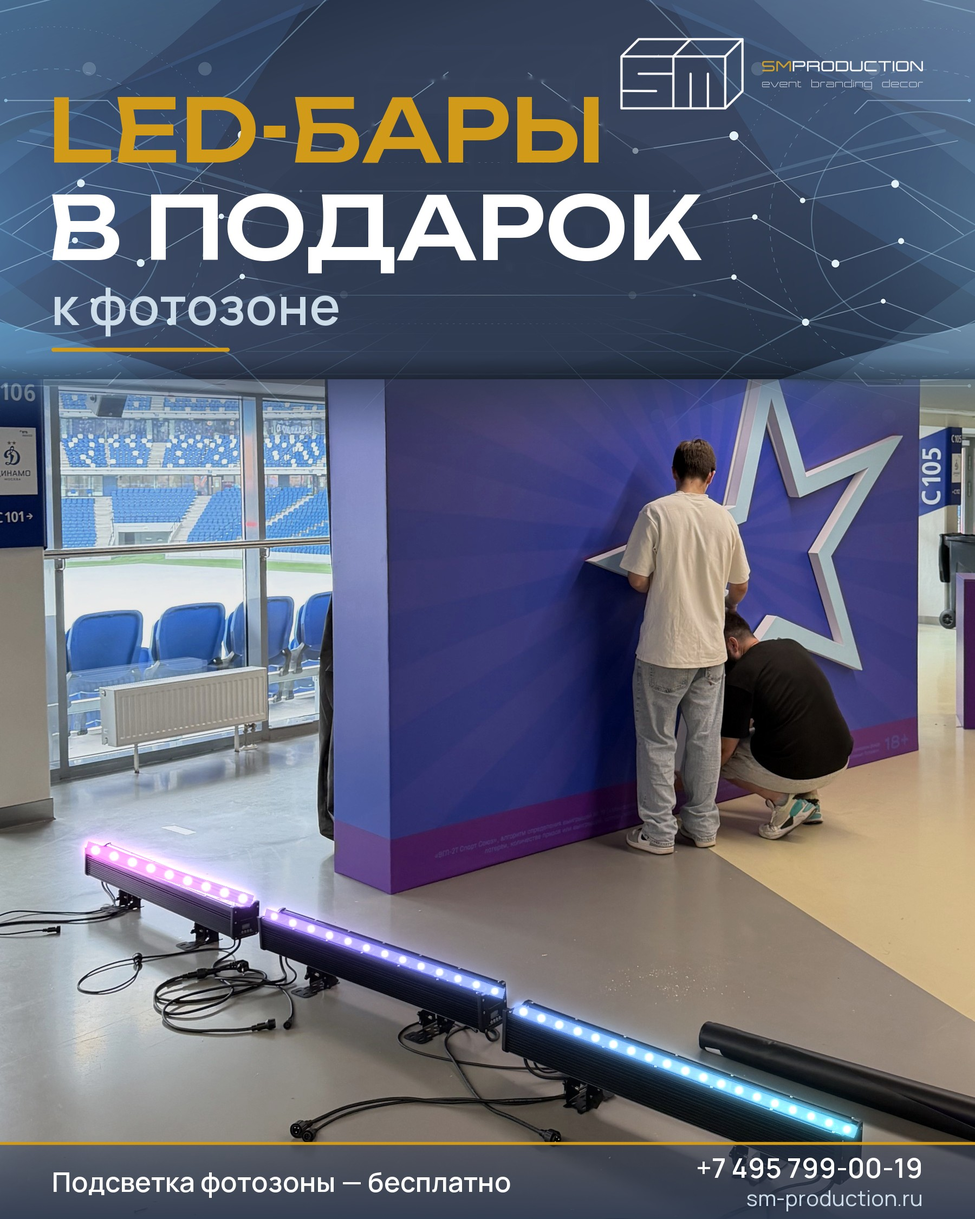
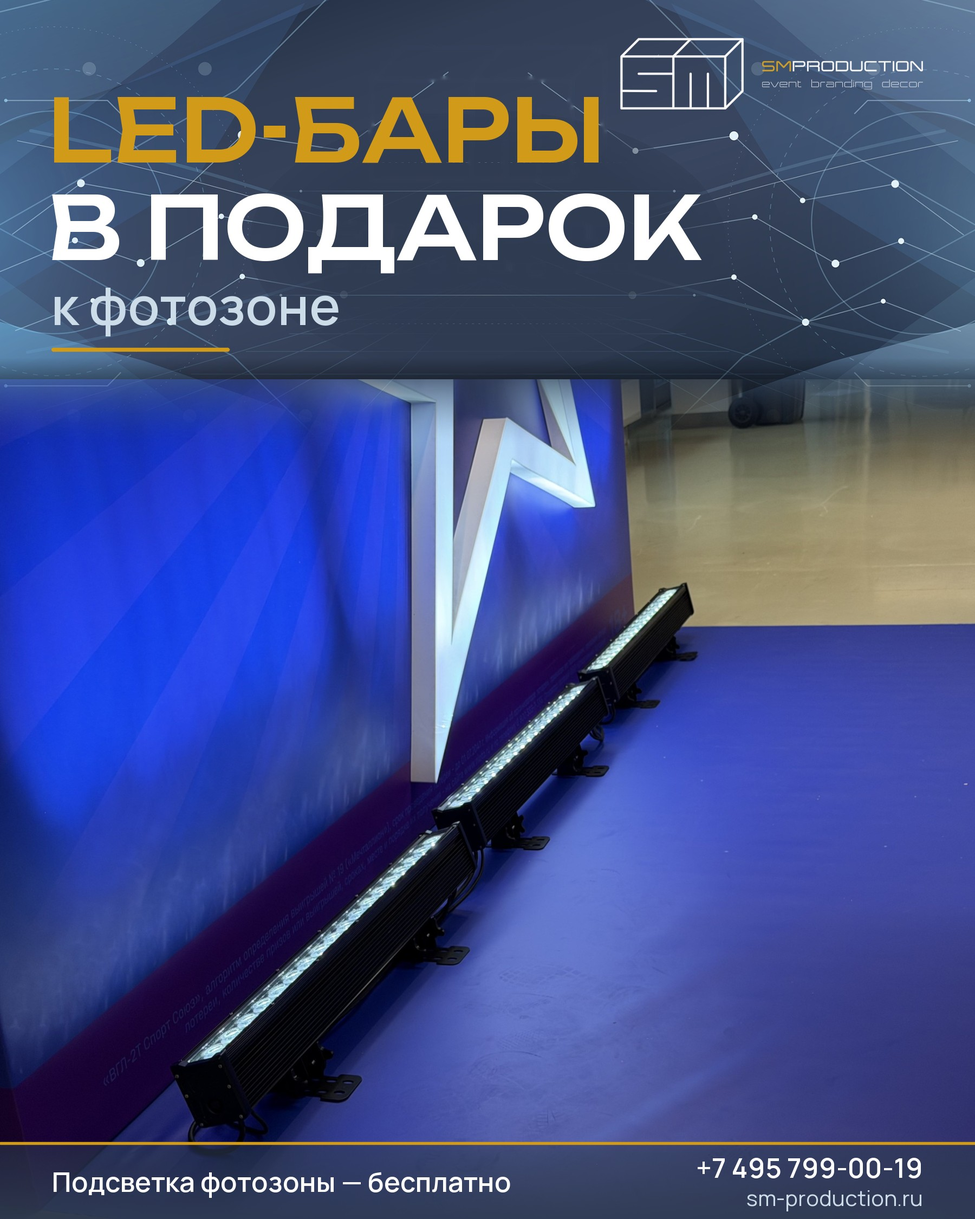
Ad creative 'LED-bars gift': real lit photozone photo; carousel cover reverted

diff --git a/scripts/smm/led_promo_carousel.py b/scripts/smm/led_promo_carousel.py
@@ -148,17 +148,18 @@ def lit_photozone():
 
 
 def slide_cover():
-    """Обложка в стиле креатива «LED-бары в подарок»: фирменная плашка сверху, ниже — реальное фото
-    фотозоны, подсвеченной тремя LED-барами (src/led-bars-photozone-lit.jpg)."""
+    """Обложка в стиле креатива «LED-бары в подарок»: фирменная плашка сверху (закрывает чужие логотипы
+    на стенде), ниже — фотозона и три светящихся LED-бара."""
     img = brand_bg(W, H).convert("RGBA")
-    top = 560
-    ph = cover_crop(Image.open(SRC / "led-bars-photozone-lit.jpg").convert("RGB"), W, H - 96 - top, 0.25, 0.5)
-    img.alpha_composite(ph.convert("RGBA"), (0, top))
+    ph = lit_photozone()
+    s = W / ph.width
+    ph = ph.resize((W, round(ph.height * s)), Image.LANCZOS).convert("RGBA")
+    off = 40
+    img.alpha_composite(ph.crop((0, 0, W, H - off)), (0, off))
     # фирменная плашка сверху с плавным переходом в фото
-    ph_h = 690
-    panel = brand_bg(W, ph_h).convert("RGBA")
-    a = np.ones(ph_h, np.float32)
-    a[590:] = np.linspace(1, 0, ph_h - 590) ** 1.4
+    panel = brand_bg(W, 640).convert("RGBA")
+    a = np.ones(640, np.float32)
+    a[560:] = np.linspace(1, 0, 80) ** 1.4
     panel.putalpha(Image.fromarray((np.repeat(a[:, None], W, 1) * 255).astype(np.uint8)))
     img.alpha_composite(panel, (0, 0))
     d = ImageDraw.Draw(img)
@@ -167,7 +168,7 @@ def slide_cover():
     d.text((58, 356), "В ПОДАРОК", font=F("u", 116), fill=WHITE)
     d.text((64, 496), "к имиджевой фотозоне", font=F("ms", 50), fill=(233, 220, 205))
     d.line((66, 572, 330, 572), fill=GOLD, width=5)
-    gift_badge(img, W - 240, 1440, r=118)
+    gift_badge(img, 250, 860, r=112)
     chrome(img, 1, dark_top=False)
     return img
 

diff --git a/scripts/rebrand/real_projects.py b/scripts/rebrand/real_projects.py
@@ -716,15 +716,15 @@ def led_glow(img, bars):
 
 
 def creative():
-    img = cv2.imread(str(SRC / "photozone-led-bars.jpg"))
-    MAG, VIO, CYA = (230, 80, 255), (255, 90, 150), (255, 210, 60)
-    lit = led_glow(img, [((160, 1504), (465, 1604), 22, MAG, VIO),
-                         ((490, 1626), (930, 1775), 18, VIO, (255, 140, 90)),
-                         ((950, 1801), (1580, 2031), 20, (255, 140, 90), CYA)])
+    # реальное фото фотозоны с включёнными LED-барами (прислано заказчиком)
+    img = cv2.imread(str(SRC / "photozone-led-bars-lit.jpg"))
     W, Hc, top = 1800, 2250, 700
     canvas = np.zeros((Hc, W, 3), np.uint8)
-    y0 = 640                      # верх стены с чужими логотипами уходит под плашку
-    canvas[top:] = lit[y0:y0 + Hc - top]
+    ph_h = Hc - top
+    s = max(W / img.shape[1], ph_h / img.shape[0])
+    rs = cv2.resize(img, (round(img.shape[1] * s), round(img.shape[0] * s)), interpolation=cv2.INTER_AREA)
+    x0 = int((rs.shape[1] - W) * 0.3)             # бары и звезда — в левой части кадра
+    canvas[top:] = rs[:ph_h, x0:x0 + W]
 
     # верхняя фирменная плашка (фон баннера) с плавным переходом в фото
     ph = top + 120

diff --git a/visualizations/rebrand-2026/real-projects/README.md b/visualizations/rebrand-2026/real-projects/README.md
@@ -12,7 +12,7 @@
 | `sm-real-projects-overview.jpg` | — | Обзорный лист трёх проектов |
 | `sm-real-brus-banner-msu.jpg` | `sm-real-brus-banner-msu_before-after.jpg` | Брус-баннер: лицевая сторона → баннер SM (перспектива по точкам схода торца), торец → фирменный синий; LED-бары, кулиса и блики подсветки на глянце сохранены |
 | `sm-real-presswall-uplight.jpg` | `sm-real-presswall-uplight_before-after.jpg` | Пресс-волл: чёрный фон с логотипами → тёмно-синий press wall с шахматной сеткой логотипов SM; цветная подсветка LED-баров (фиолетовая/белая) перенесена с исходного фото |
-| `sm-ad-led-bars-gift.jpg` | — | Рекламный креатив 4:5 (1800×2250) «LED-бары в подарок к фотозоне»: фирменная плашка с заголовком, фото монтажа с «включёнными» LED-барами (RGB-свечение дорисовано программно), контакты с сайта |
+| `sm-ad-led-bars-gift.jpg` | — | Рекламный креатив 4:5 (1800×2250) «LED-бары в подарок к фотозоне»: фирменная плашка с заголовком, реальное фото фотозоны с включёнными LED-барами (`originals/photozone-led-bars-lit.jpg`), контакты с сайта |
 | `sm-real-projects-overview-2.jpg` | — | Обзорный лист: брус-баннер, пресс-волл, креатив |
 
 Исходники (уменьшены до 2400 px по длинной стороне) — `originals/`.
@@ -36,7 +36,6 @@ pip install -r scripts/rebrand/requirements.txt
 python3 scripts/rebrand/real_projects.py                       # всё
 python3 scripts/rebrand/real_projects.py sm-ad-led-bars-gift   # одна работа
 ```
-Тексты креатива (заголовок, подпись, телефон, сайт) — в функции `creative()`,
-цвета свечения LED-баров — там же (`MAG`, `VIO`, `CYA`).
+Тексты креатива (заголовок, подпись, телефон, сайт) и кадрирование фото — в функции `creative()`.
 Тексты табличек меняются в функциях `sign_top`, `sign_arrow` и `sign_bottom` в
 `scripts/rebrand/real_projects.py`.

diff --git a/smm/posts/led-bars-gift-promo.md b/smm/posts/led-bars-gift-promo.md
@@ -29,7 +29,7 @@
 #акция #смпродакшн #фотозона #имиджеваяфотозона #фотозонадлямероприятия #ledбары #подсветка #оформлениемероприятий #event #новогоднийкорпоратив
 
 **Визуал:** карусель из 7 слайдов 4:5 (1440×1800) — `smm/posts/led-bars-gift-carousel/`
-1. `slide-01.jpg` — обложка в стиле креатива «LED-бары в подарок»: фирменная плашка «LED-БАРЫ В ПОДАРОК к имиджевой фотозоне», ниже реальное фото фотозоны, подсвеченной тремя LED-барами (акция до 15 декабря, бейдж «3 LED-бара в подарок»)
+1. `slide-01.jpg` — обложка в стиле креатива «LED-бары в подарок»: фирменная плашка «LED-БАРЫ В ПОДАРОК к имиджевой фотозоне», ниже фотозона и три светящихся LED-бара (акция до 15 декабря, бейдж «3 LED-бара в подарок»)
 2. `slide-02.jpg` — условия: 3 LED-бара · 1–2 дня · 0 ₽ за аренду; привезём, установим, подключим (220 V); внизу — три светящихся LED-бара
 3. `slide-03.jpg` — пример: пресс-волл с цветной подсветкой
 4. `slide-04.jpg` — пример: EdTechs Awards 2025, ровный свет по всей ширине
